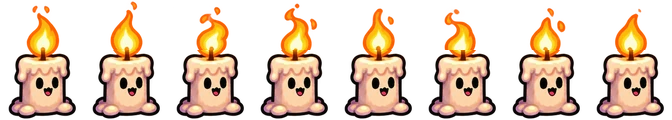
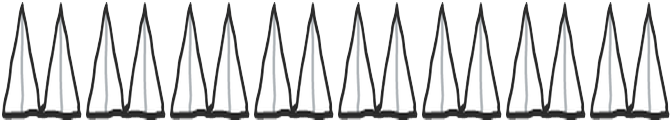
Pencil test: scribble gear and spikes, optional red tint for traps

diff --git a/src/client/game/objects/ObjectRegistry.ts b/src/client/game/objects/ObjectRegistry.ts
@@ -7,6 +7,7 @@ import {
   CANDLE_DISPLAY_HEIGHT_PX,
   GHOST_DISPLAY_HEIGHT_PX,
   FINISH_DISPLAY_HEIGHT_PX,
+  HAZARD_TINT,
   GHOST_AMPLITUDE_PX,
   GHOST_PERIOD_MS,
   MOVING_PLATFORM_AMPLITUDE_PX,
@@ -269,6 +270,10 @@ export function pickPlatformTexture(
   return PLATFORM_CENTER_KEYS[index] as string;
 }
 
+// Hazards drawn with the scribble art (see HAZARD_TINT). The bat and ghost
+// keep their old painted art, which a multiply tint would only muddy.
+const SCRIBBLE_HAZARD_TYPES = new Set<ObjectType>(['saw', 'movingSaw', 'candle']);
+
 // A solid's `y` is authored as its walkable top face (spawn position and
 // fall-death both assume that), so it must be top-anchored — the tile's
 // body extends downward, below the surface, out of view. A hazard or the
@@ -333,6 +338,9 @@ export function renderLevelObject(
     // Aspect preserved (unlike bat's forced squash).
     sprite.setScale(FINISH_DISPLAY_HEIGHT_PX / sprite.height);
     attachArcaneCrackle(scene, sprite, 1);
+  }
+  if (HAZARD_TINT !== null && SCRIBBLE_HAZARD_TYPES.has(object.type)) {
+    sprite.setTint(HAZARD_TINT);
   }
   scene.physics.add.existing(sprite, !DYNAMIC_BODY_TYPES.has(object.type));
 

diff --git a/src/client/game/constants.ts b/src/client/game/constants.ts
@@ -88,6 +88,11 @@ export const BAT_DISPLAY_HEIGHT_PX = 40;
 export const CANDLE_DISPLAY_HEIGHT_PX = 40;
 export const GHOST_DISPLAY_HEIGHT_PX = 50;
 
+// Pencil test: multiply tint for the scribble hazards (white fill, black
+// outline), so the fill turns red and the outline stays black. null leaves
+// them plain white-and-black, for comparing the two looks.
+export const HAZARD_TINT: number | null = 0xe53935;
+
 // The finish gate is scaled to this height (~3.3 grid tiles, tall enough
 // that the player fits under its banner); width follows the art's own
 // aspect ratio.
